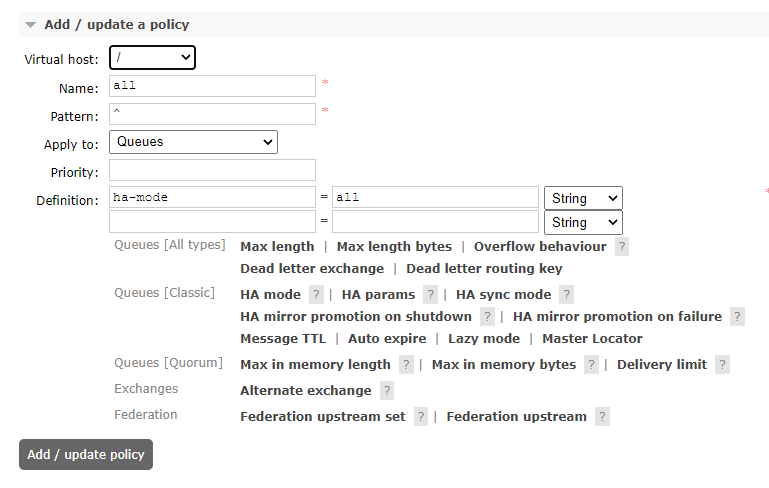
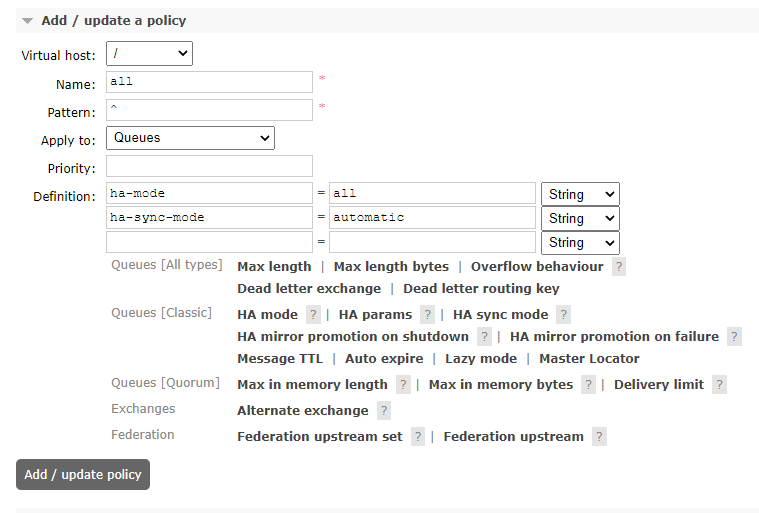
小改动

diff --git a/service_config/use-ansible-playbook-to-install-rabbitmq-cluster.md b/service_config/use-ansible-playbook-to-install-rabbitmq-cluster.md
@@ -227,6 +227,10 @@ PLAY RECAP *********************************************************************
 
 Consider using file module with state=directory rather than running mkdir的提示是说：最好用 state=directory 代替mkdir
 
+
+
+### rabbitmq界面
+
 我们要查看rabbitmq的界面，需要启用图形化界面插件，并且设置登录的用户名、密码和权限
 
 ```
@@ -299,13 +303,15 @@ Applying plugin configuration to rabbit@vm02... started 6 plugins.
 
 
 
-##### rabbitmq的HA
+### rabbitmq的HA
 
 rabbitmq的HA高可用需要设置policy
 
 ![rabbitmq集群设置policy](../images/2021/05/rabbitmq-cluster-policy.png)
 
 virtual host选自建的，下面name名字随意起的，pattern 为 ^ 表示匹配所有，下面ha-mode选all，这样node1节点故障，queue会在其他节点上继续运行，不会出现 queue down的情况
+
+ha-sync-mode 选automatic，默认新加入的镜像不会同步消息，即默认的选项是manual，如果不加此选项，rabbitmq node节点重启后，会提示unsynchronised mirrors
 
 
 
